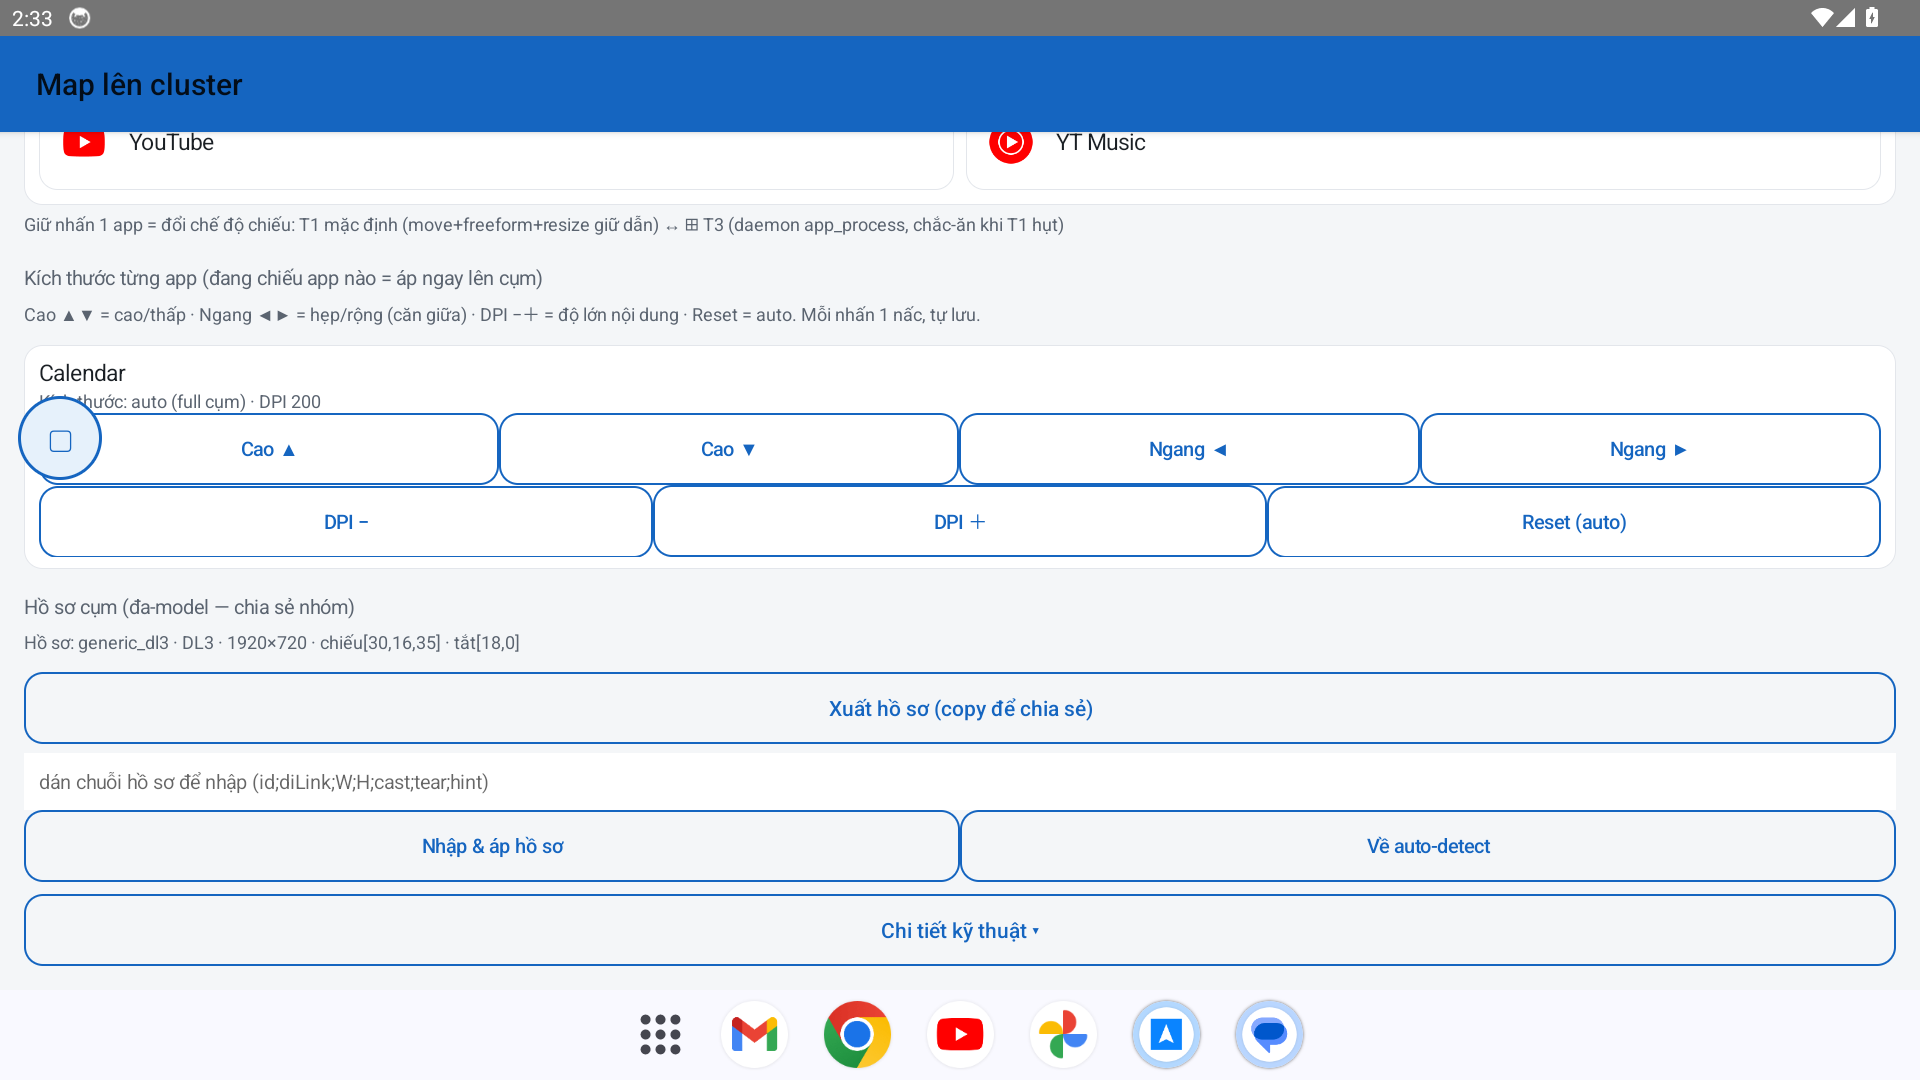
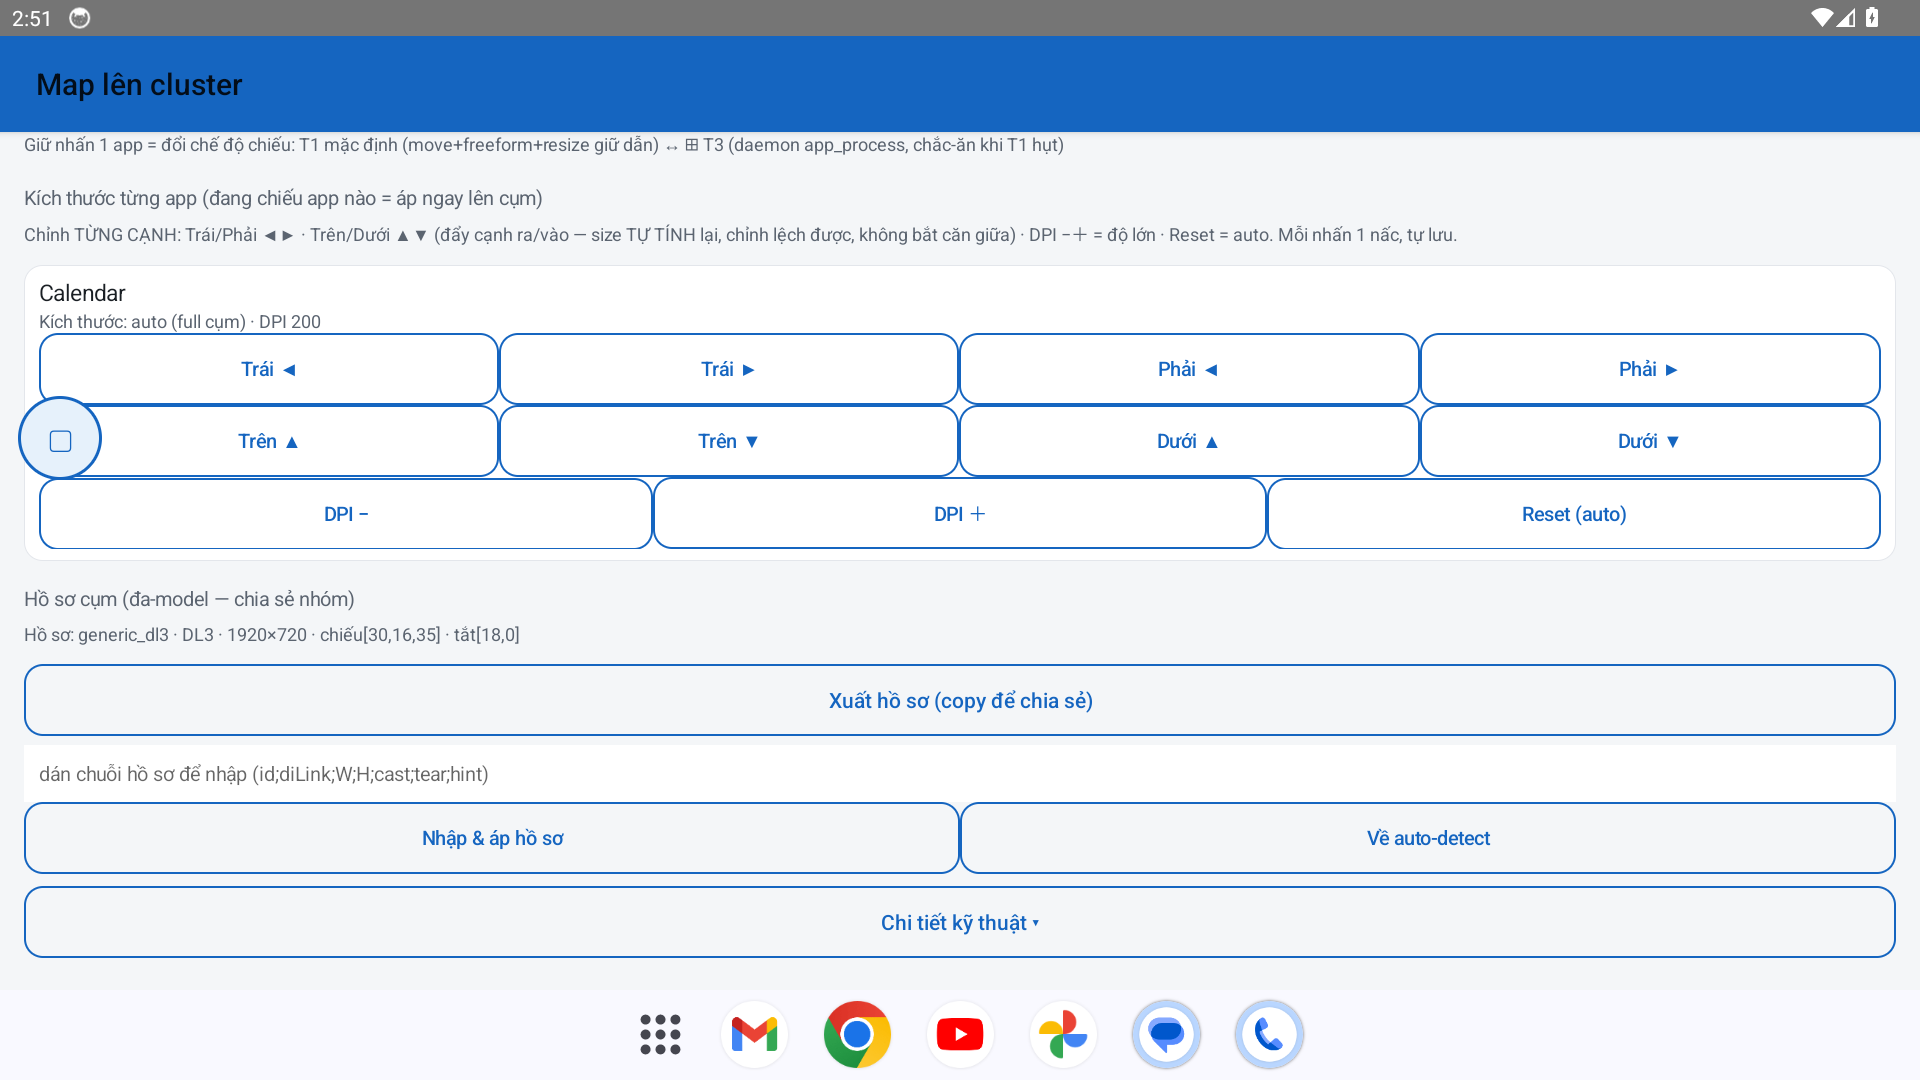
feat(scale): chỉnh kích thước theo TỪNG CẠNH (Trái/Phải/Trên/Dưới) + bump v0.29
Thay 'Cao/Ngang căn giữa' bằng nudgeEdge: mỗi cạnh đẩy ra/vào độc lập,
size tự tính lại, chỉnh lệch được (không bắt căn giữa). +6 unit test.
Cập nhật hướng dẫn + ảnh + APK phát hành 0.29.

diff --git a/app/src/main/java/com/byd/clusternav/modules/clustercast/ClusterCastActivity.kt b/app/src/main/java/com/byd/clusternav/modules/clustercast/ClusterCastActivity.kt
@@ -97,7 +97,7 @@ class ClusterCastActivity : Activity() {
 
         // ── SCALE PER-APP (T-C): panel nút mũi tên cho từng app đã tick ──
         root.addView(sectionTitle("Kích thước từng app (đang chiếu app nào = áp ngay lên cụm)"))
-        root.addView(TextView(this).apply { text = "Cao ▲▼ = cao/thấp · Ngang ◀▶ = hẹp/rộng (căn giữa) · DPI −＋ = độ lớn nội dung · Reset = auto. Mỗi nhấn 1 nấc, tự lưu."; textSize = 12f; setTextColor(0xFF5B6470.toInt()); setPadding(0, 0, 0, dp(6)) })
+        root.addView(TextView(this).apply { text = "Chỉnh TỪNG CẠNH: Trái/Phải ◀▶ · Trên/Dưới ▲▼ (đẩy cạnh ra/vào — size TỰ TÍNH lại, chỉnh lệch được, không bắt căn giữa) · DPI −＋ = độ lớn · Reset = auto. Mỗi nhấn 1 nấc, tự lưu."; textSize = 12f; setTextColor(0xFF5B6470.toInt()); setPadding(0, 0, 0, dp(6)) })
         scaleBox = LinearLayout(this).apply { orientation = LinearLayout.VERTICAL }
         root.addView(scaleBox)
         rebuildScalePanels()
@@ -206,25 +206,38 @@ class ClusterCastActivity : Activity() {
         val info = TextView(this).apply { textSize = 12f; setTextColor(0xFF5B6470.toInt()); text = scaleSummary(pkg) }
         col.addView(info)
 
-        fun applyNudge(dW: Int, dH: Int, dDpi: Int) {
+        fun applyEdge(edge: AppScale.Edge, delta: Int) {
             val (w, h) = clusterRef()
-            val cur = ClusterCast.scaleOf(pkg)
-            val next = if (dDpi != 0) cur.nudgeDpi(dDpi) else cur.nudgeRect(w, h, dW, dH)
-            ClusterCast.setScale(applicationContext, pkg, next)
+            ClusterCast.setScale(applicationContext, pkg, ClusterCast.scaleOf(pkg).nudgeEdge(w, h, edge, delta))
             info.text = scaleSummary(pkg)
             ClusterCast.applyScaleLive(applicationContext, pkg) { s -> runOnUiThread { logln(s) } }
         }
+        fun applyDpi(d: Int) {
+            ClusterCast.setScale(applicationContext, pkg, ClusterCast.scaleOf(pkg).nudgeDpi(d))
+            info.text = scaleSummary(pkg)
+            ClusterCast.applyScaleLive(applicationContext, pkg) { s -> runOnUiThread { logln(s) } }
+        }
+        val S = AppScale.STEP_WH
 
-        val row1 = LinearLayout(this).apply { orientation = LinearLayout.HORIZONTAL }
+        // hàng chỉnh cạnh NGANG: cạnh Trái + cạnh Phải (mỗi cạnh đẩy ◀ trái / ▶ phải)
+        val rowLR = LinearLayout(this).apply { orientation = LinearLayout.HORIZONTAL }
         for ((lbl, act) in listOf<Pair<String, () -> Unit>>(
-            "Cao ▲" to { applyNudge(0, AppScale.STEP_WH, 0) }, "Cao ▼" to { applyNudge(0, -AppScale.STEP_WH, 0) },
-            "Ngang ◀" to { applyNudge(-AppScale.STEP_WH, 0, 0) }, "Ngang ▶" to { applyNudge(AppScale.STEP_WH, 0, 0) }))
-            row1.addView(smallBtn(lbl, act).apply { layoutParams = LinearLayout.LayoutParams(0, ViewGroup.LayoutParams.WRAP_CONTENT, 1f) })
-        col.addView(row1)
+            "Trái ◀" to { applyEdge(AppScale.Edge.LEFT, -S) }, "Trái ▶" to { applyEdge(AppScale.Edge.LEFT, S) },
+            "Phải ◀" to { applyEdge(AppScale.Edge.RIGHT, -S) }, "Phải ▶" to { applyEdge(AppScale.Edge.RIGHT, S) }))
+            rowLR.addView(smallBtn(lbl, act).apply { layoutParams = LinearLayout.LayoutParams(0, ViewGroup.LayoutParams.WRAP_CONTENT, 1f) })
+        col.addView(rowLR)
+
+        // hàng chỉnh cạnh DỌC: cạnh Trên + cạnh Dưới (mỗi cạnh đẩy ▲ lên / ▼ xuống)
+        val rowTB = LinearLayout(this).apply { orientation = LinearLayout.HORIZONTAL }
+        for ((lbl, act) in listOf<Pair<String, () -> Unit>>(
+            "Trên ▲" to { applyEdge(AppScale.Edge.TOP, -S) }, "Trên ▼" to { applyEdge(AppScale.Edge.TOP, S) },
+            "Dưới ▲" to { applyEdge(AppScale.Edge.BOTTOM, -S) }, "Dưới ▼" to { applyEdge(AppScale.Edge.BOTTOM, S) }))
+            rowTB.addView(smallBtn(lbl, act).apply { layoutParams = LinearLayout.LayoutParams(0, ViewGroup.LayoutParams.WRAP_CONTENT, 1f) })
+        col.addView(rowTB)
 
         val row2 = LinearLayout(this).apply { orientation = LinearLayout.HORIZONTAL }
         for ((lbl, act) in listOf<Pair<String, () -> Unit>>(
-            "DPI −" to { applyNudge(0, 0, -AppScale.STEP_DPI) }, "DPI ＋" to { applyNudge(0, 0, AppScale.STEP_DPI) },
+            "DPI −" to { applyDpi(-AppScale.STEP_DPI) }, "DPI ＋" to { applyDpi(AppScale.STEP_DPI) },
             "Reset (auto)" to {
                 ClusterCast.setScale(applicationContext, pkg, AppScale()); info.text = scaleSummary(pkg)
                 ClusterCast.applyScaleLive(applicationContext, pkg) { s -> runOnUiThread { logln(s) } }

diff --git a/app/src/test/java/com/byd/clusternav/modules/clustercast/AppScaleTest.kt b/app/src/test/java/com/byd/clusternav/modules/clustercast/AppScaleTest.kt
@@ -111,4 +111,38 @@ class AppScaleTest {
         val s = AppScale(200, 10, 20, 30, 40).nudgeDpi(10)
         assertEquals(10, s.rectL); assertEquals(40, s.rectB)
     }
+
+    @Test fun `nudgeEdge left edge moves independently and recalculates size`() {
+        val s = AppScale(200, 100, 100, 1000, 600).nudgeEdge(1920, 720, AppScale.Edge.LEFT, -16)
+        assertEquals(84, s.rectL)        // 100 - 16 (rộng ra)
+        assertEquals(1000, s.rectR)      // phải GIỮ
+        assertEquals(100, s.rectT); assertEquals(600, s.rectB)  // dọc GIỮ
+    }
+
+    @Test fun `nudgeEdge right edge inward shrinks width, left kept`() {
+        val s = AppScale(200, 100, 100, 1000, 600).nudgeEdge(1920, 720, AppScale.Edge.RIGHT, -16)
+        assertEquals(984, s.rectR); assertEquals(100, s.rectL)
+    }
+
+    @Test fun `nudgeEdge bottom edge down grows height, top kept`() {
+        val s = AppScale(200, 100, 100, 1000, 600).nudgeEdge(1920, 720, AppScale.Edge.BOTTOM, 16)
+        assertEquals(616, s.rectB); assertEquals(100, s.rectT)
+    }
+
+    @Test fun `nudgeEdge clamps within VD bounds`() {
+        assertEquals(0, AppScale(200, 10, 100, 1000, 600).nudgeEdge(1920, 720, AppScale.Edge.LEFT, -999).rectL)
+        assertEquals(1920, AppScale(200, 100, 100, 1900, 600).nudgeEdge(1920, 720, AppScale.Edge.RIGHT, 999).rectR)
+    }
+
+    @Test fun `nudgeEdge keeps MIN_PX between opposite edges`() {
+        val s = AppScale(200, 100, 100, 100 + AppScale.MIN_PX, 600).nudgeEdge(1920, 720, AppScale.Edge.LEFT, 999)
+        assertTrue(s.rectR - s.rectL >= AppScale.MIN_PX)
+    }
+
+    @Test fun `nudgeEdge from auto materializes full then adjusts one edge`() {
+        val s = AppScale().nudgeEdge(1920, 720, AppScale.Edge.RIGHT, -100)
+        assertFalse(s.isAuto)
+        assertEquals(0, s.rectL); assertEquals(0, s.rectT); assertEquals(720, s.rectB)
+        assertEquals(1820, s.rectR)      // full 1920 → 1820
+    }
 }

diff --git a/app/src/main/java/com/byd/clusternav/modules/clustercast/AppScale.kt b/app/src/main/java/com/byd/clusternav/modules/clustercast/AppScale.kt
@@ -49,11 +49,31 @@ data class AppScale(
     /** Đổi DPI ± [d] nấc, GIỮ nguyên rect. Clamp [DPI_MIN,DPI_MAX]. */
     fun nudgeDpi(d: Int): AppScale = copy(dpi = (dpi + d).coerceIn(DPI_MIN, DPI_MAX))
 
+    /**
+     * Chỉnh 1 CẠNH độc lập: dời cạnh [edge] đi [delta] px, TỰ TÍNH LẠI kích thước (không căn giữa).
+     * delta<0 = cạnh dịch sang TRÁI/LÊN · delta>0 = sang PHẢI/XUỐNG. AUTO/full → materialize [0,0,w,h] trước.
+     * Clamp trong [0,w]/[0,h], không để 2 cạnh đối vượt nhau (giữ tối thiểu [MIN_PX]).
+     */
+    fun nudgeEdge(w: Int, h: Int, edge: Edge, delta: Int): AppScale {
+        val b = boundsOn(w, h)
+        var l = b[0]; var t = b[1]; var r = b[2]; var bot = b[3]
+        when (edge) {
+            Edge.LEFT   -> l = (l + delta).coerceIn(0, r - MIN_PX)
+            Edge.RIGHT  -> r = (r + delta).coerceIn(l + MIN_PX, w)
+            Edge.TOP    -> t = (t + delta).coerceIn(0, bot - MIN_PX)
+            Edge.BOTTOM -> bot = (bot + delta).coerceIn(t + MIN_PX, h)
+        }
+        return copy(rectL = l, rectT = t, rectR = r, rectB = bot)
+    }
+
+    /** 4 cạnh khung để chỉnh độc lập. */
+    enum class Edge { LEFT, TOP, RIGHT, BOTTOM }
+
     companion object {
         const val DPI_MIN = 120
         const val DPI_MAX = 320
         const val MIN_PX = 160   // khung tối thiểu (không co về 0)
-        const val STEP_WH = 16   // 1 nấc mũi tên Cao/Ngang (px)
+        const val STEP_WH = 16   // 1 nấc mũi tên chỉnh cạnh Trái/Phải/Trên/Dưới (px)
         const val STEP_DPI = 10  // 1 nấc mũi tên DPI
 
         /** parse "dpi,l,t,r,b". null nếu sai định dạng (số phần ≠ 5 hoặc không phải số). */

diff --git a/docs/HUONG-DAN.md b/docs/HUONG-DAN.md
@@ -4,9 +4,9 @@
 
 ## 1. Cài đặt
 
-1. Tải APK: [`apk/ClusterNav-0.28-release.apk`](../apk/ClusterNav-0.28-release.apk) → cài:
+1. Tải APK: [`apk/ClusterNav-0.29-release.apk`](../apk/ClusterNav-0.29-release.apk) → cài:
    ```bash
-   adb install -r ClusterNav-0.28-release.apk
+   adb install -r ClusterNav-0.29-release.apk
    ```
    (hoặc copy vào máy bấm cài — cho phép "cài từ nguồn không xác định").
 2. Trên xe bật một lần: **Developer options → USB debugging** + **adb tcp 5555**.
@@ -50,14 +50,18 @@ Khi muốn xem **nguyên bản đồ** (Google Maps / VietMap / Waze / Apple Car
 
 ## 5. Chỉnh kích thước từng app (scale)
 
-Mỗi app một tỷ lệ khác nhau → chỉnh riêng bằng **nút mũi tên**, nhấn tới khi vừa mắt (tự lưu, áp ngay lên cụm nếu đang chiếu):
+Mỗi app một tỷ lệ khác nhau → chỉnh riêng bằng **nút mũi tên theo TỪNG CẠNH**, nhấn tới khi vừa mắt (tự lưu, áp ngay lên cụm nếu đang chiếu). **Chỉnh lệch được — không bắt căn giữa:**
 
 ![Chỉnh scale](images/chinh-scale.png)
 
-- **Cao ▲ / ▼** — cao / thấp (căn giữa dọc)
-- **Ngang ◀ / ▶** — hẹp / rộng (căn giữa) → CarPlay/GMaps bị kéo ngang thì bấm ◀ cho gọn vào giữa
+- **Trái ◀ / ▶** — đẩy cạnh trái ra / vào
+- **Phải ◀ / ▶** — đẩy cạnh phải ra / vào
+- **Trên ▲ / ▼** — đẩy cạnh trên lên / xuống
+- **Dưới ▲ / ▼** — đẩy cạnh dưới lên / xuống
 - **DPI − / ＋** — nội dung to / nhỏ
 - **Reset (auto)** — về full cụm
+
+> Mỗi cạnh chỉnh **độc lập**, kích thước **tự tính lại**. Ví dụ CarPlay bị rộng → đẩy **Phải ◀** thu cạnh phải vào; muốn khung lệch sang trái thì chỉ chỉnh cạnh trái/phải theo ý.
 
 ## 6. GPS trong hầm (dead-reckon)
 

diff --git a/README.md b/README.md
@@ -7,11 +7,11 @@
 ⚠️ **Thử nghiệm — dùng tự chịu rủi ro.** Đây là dự án hobby, KHÔNG liên kết với BYD. Chỉ can thiệp kiểu no-root (qua ADB nội bộ) và đảo ngược được, nhưng bạn tự chịu trách nhiệm khi cài lên xe thật.
 
 ## Tải & cài nhanh (không cần build)
-Tải APK: **[`apk/ClusterNav-0.28-release.apk`](apk/ClusterNav-0.28-release.apk)** — bấm vào file rồi chọn **Download**.
+Tải APK: **[`apk/ClusterNav-0.29-release.apk`](apk/ClusterNav-0.29-release.apk)** — bấm vào file rồi chọn **Download**.
 
 Cài qua ADB (khuyến nghị — giữ quyền + cấu hình khi update):
 ```bash
-adb install -r ClusterNav-0.28-release.apk
+adb install -r ClusterNav-0.29-release.apk
 ```
 Hoặc copy APK vào máy/điện thoại rồi bấm cài (cho phép "cài từ nguồn không xác định").
 > Mọi bản release **cùng chữ ký** → lần sau update chỉ cần `install -r`, KHÔNG phải gỡ (giữ nguyên cấu hình).